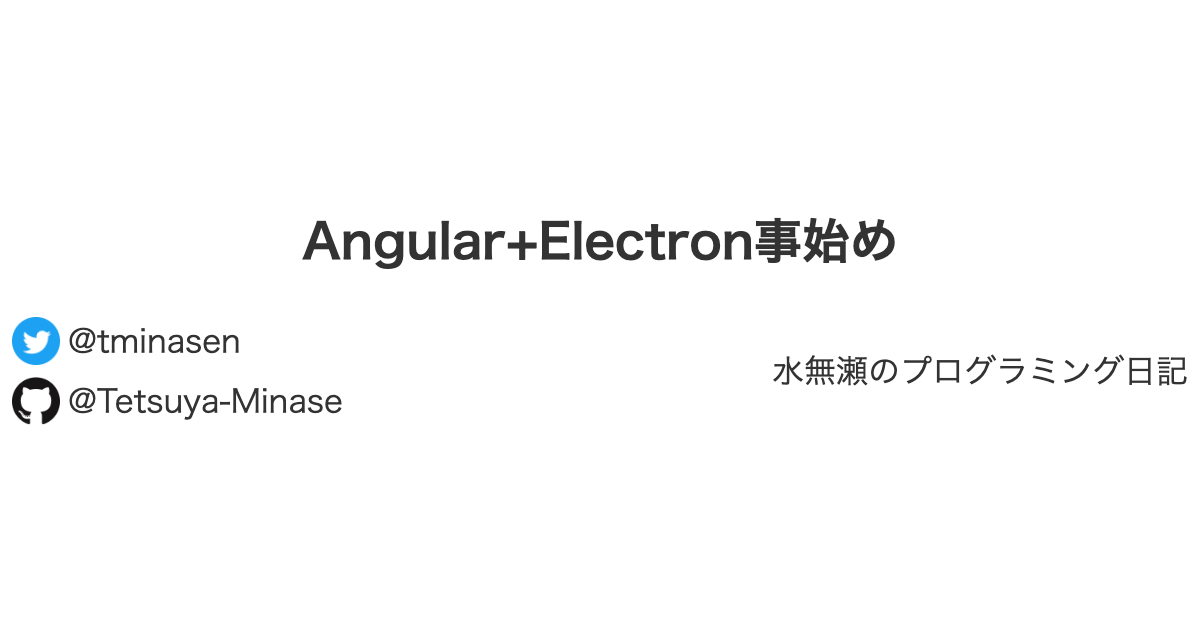
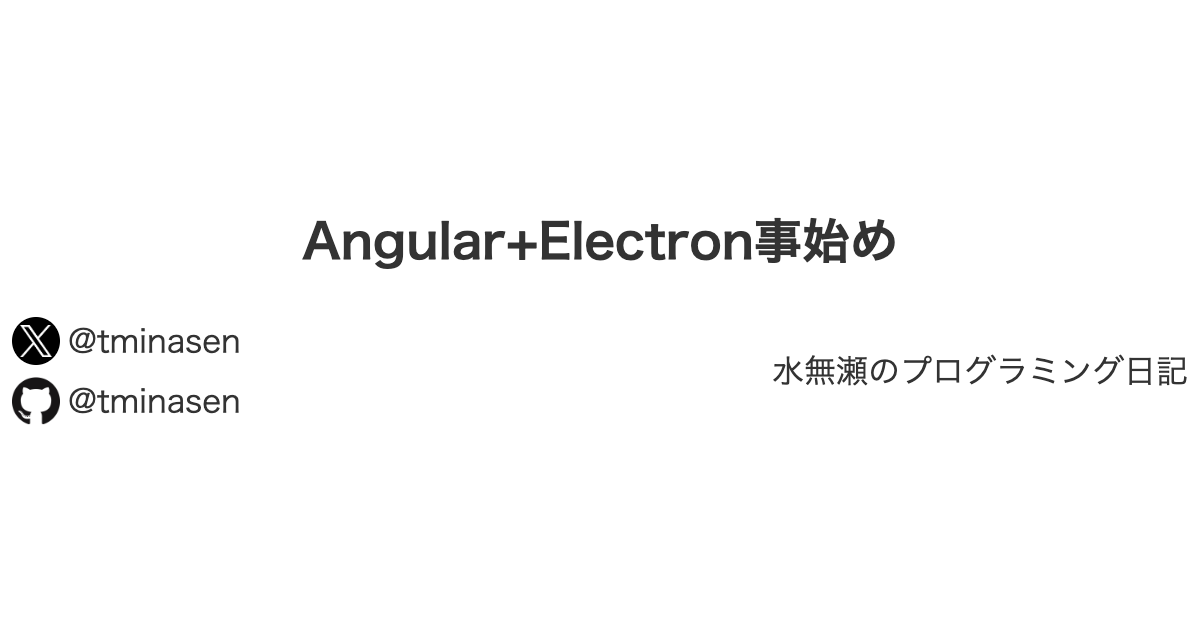
chore: GitHubアカウント名変更（Tetsuya-Minase → tminasen）に伴う参照箇所の更新

Changed region(s): [[0.0617, 0.6032, 0.3083, 0.6635], [0.0, 0.4825, 0.0617, 0.573]]

diff --git a/src/components/atoms/GithubArticleButton.test.tsx b/src/components/atoms/GithubArticleButton.test.tsx
@@ -1,0 +1,85 @@
+import fs from 'node:fs';
+import path from 'node:path';
+import { render, screen } from '@testing-library/react';
+import { describe, it, expect } from 'vitest';
+import { GithubArticleButton } from './GithubArticleButton';
+import { metaData } from '../../constants/metaData';
+
+describe('GithubArticleButton & metaData', () => {
+  it('should render article link with new GitHub account URL when valid article path is provided', () => {
+    // Given: path: "/blog/20200520"
+    const path = '/blog/20200520';
+
+    // When: <GithubArticleButton path="/blog/20200520" /> をレンダリングする
+    render(<GithubArticleButton path={path} />);
+
+    // Then: metaData.githubUrl が "https://github.com/tminasen/" であり、role="link"（title="Githubリンク"）の href 属性が "https://github.com/tminasen/tminasen.dev/tree/master/src/pages/blog/20200520.mdx" となる
+    expect(metaData.githubUrl).toBe('https://github.com/tminasen/');
+    const link = screen.getByRole('link', { name: 'Githubリンク' });
+    expect(link).toHaveAttribute(
+      'href',
+      'https://github.com/tminasen/tminasen.dev/tree/master/src/pages/blog/20200520.mdx',
+    );
+  });
+
+  it('should not render link when path is undefined', () => {
+    // Given: path: undefined
+    const path = undefined;
+
+    // When: <GithubArticleButton path={undefined} /> をレンダリングする
+    const { container } = render(<GithubArticleButton path={path} />);
+
+    // Then: container.firstChild が null となる（リンク要素が存在しない）
+    expect(container.firstChild).toBeNull();
+  });
+
+  it('should not render link when path does not contain article segment', () => {
+    // Given: path: "/blog"
+    const path = '/blog';
+
+    // When: <GithubArticleButton path="/blog" /> をレンダリングする
+    const { container } = render(<GithubArticleButton path={path} />);
+
+    // Then: container.firstChild が null となる（リンク要素が存在しない）
+    expect(container.firstChild).toBeNull();
+  });
+
+  it('should have GitHub account updated to @tminasen without old account name when inspecting ogp-base.html', () => {
+    // Given: scripts/generate-ogp/ogp-base.html のファイル内容
+    const ogpBasePath = path.resolve(__dirname, '../../../scripts/generate-ogp/ogp-base.html');
+    const content = fs.readFileSync(ogpBasePath, 'utf-8');
+
+    // When: ファイルを読み込みアカウント表記を検証する
+    const matches = content.match(/<p class="sns__account">@tminasen<\/p>/g) || [];
+
+    // Then: <p class="sns__account">@tminasen</p> が2箇所（X用・GitHub用）存在し、Tetsuya-Minase を含まない
+    expect(matches).toHaveLength(2);
+    expect(content).not.toMatch(/Tetsuya-Minase/i);
+  });
+
+  it('should not contain legacy account names and should use new account name when scanning all blog articles', () => {
+    // Given: src/pages/blog/ 配下の全 .mdx ファイル
+    const blogDir = path.resolve(__dirname, '../../pages/blog');
+    const mdxFiles = fs
+      .readdirSync(blogDir)
+      .filter((file) => file.endsWith('.mdx'))
+      .map((file) => path.join(blogDir, file));
+
+    // When: 全ファイルの内容を走査する
+    const occurrences: { file: string; match: string }[] = [];
+    for (const file of mdxFiles) {
+      const content = fs.readFileSync(file, 'utf-8');
+      const matches = content.match(/Tetsuya\\?-Minase/gi);
+      if (matches) {
+        occurrences.push(...matches.map((m) => ({ file: path.basename(file), match: m })));
+      }
+    }
+
+    // Then: 大文字小文字を問わず Tetsuya-Minase および Tetsuya\-Minase の出現件数が 0 件であり、976f8b32-937c-4cb8-b6f5-6d5e62228750.mdx に [tminasen/mcp\-server\-sample](https://github.com/tminasen/mcp-server-sample) が含まれる
+    expect(occurrences).toEqual([]);
+    const specificFile = path.join(blogDir, '976f8b32-937c-4cb8-b6f5-6d5e62228750.mdx');
+    const specificContent = fs.readFileSync(specificFile, 'utf-8');
+    expect(specificContent).toContain('[tminasen/mcp\\-server\\-sample](https://github.com/tminasen/mcp-server-sample)');
+  });
+});
+

diff --git a/src/constants/metaData.ts b/src/constants/metaData.ts
@@ -3,7 +3,7 @@ export const metaData = {
   description: 'プログラミング周りのメモ',
   author: '@tminasen',
   domain: 'https://tminasen.dev',
-  githubUrl: 'https://github.com/Tetsuya-Minase/',
+  githubUrl: 'https://github.com/tminasen/',
   ogpImage: '/images/ogp.png',
   XIcon: '/images/XSocialIcon.png',
   githubIcon: '/images/GithubIcon.png',

diff --git a/scripts/generate-ogp/ogp-base.html b/scripts/generate-ogp/ogp-base.html
@@ -96,7 +96,7 @@
       </div>
       <div class="sns">
         <img class="sns__icon" src="../../public/images/GithubIcon.png" alt="github">
-        <p class="sns__account">@Tetsuya-Minase</p>
+        <p class="sns__account">@tminasen</p>
       </div>
     </div>
     <p class="blog-title">
